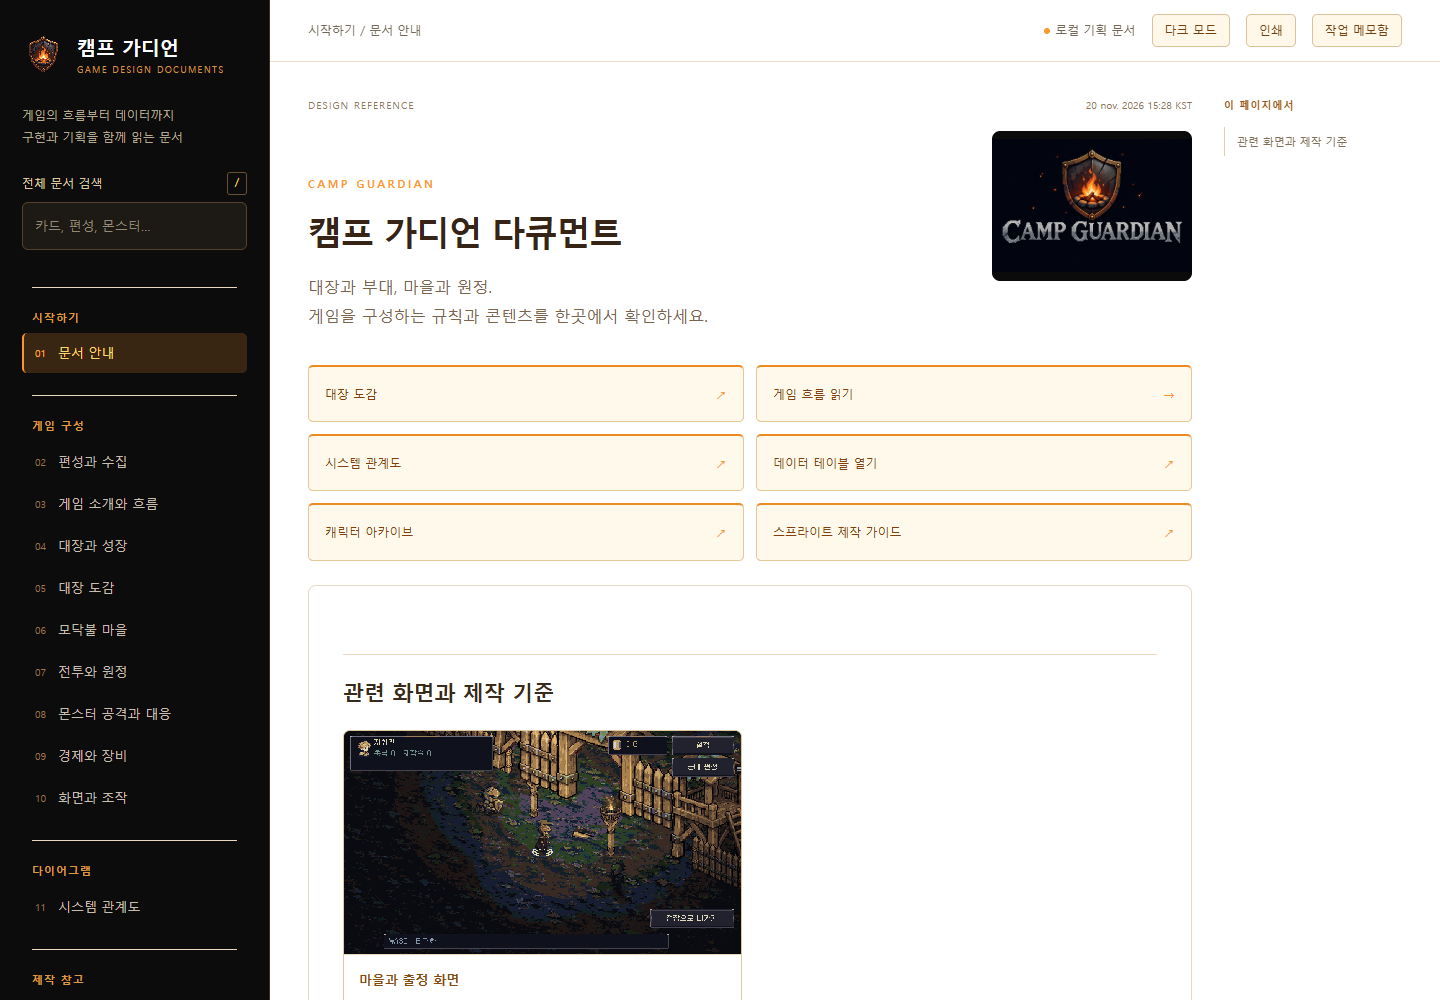
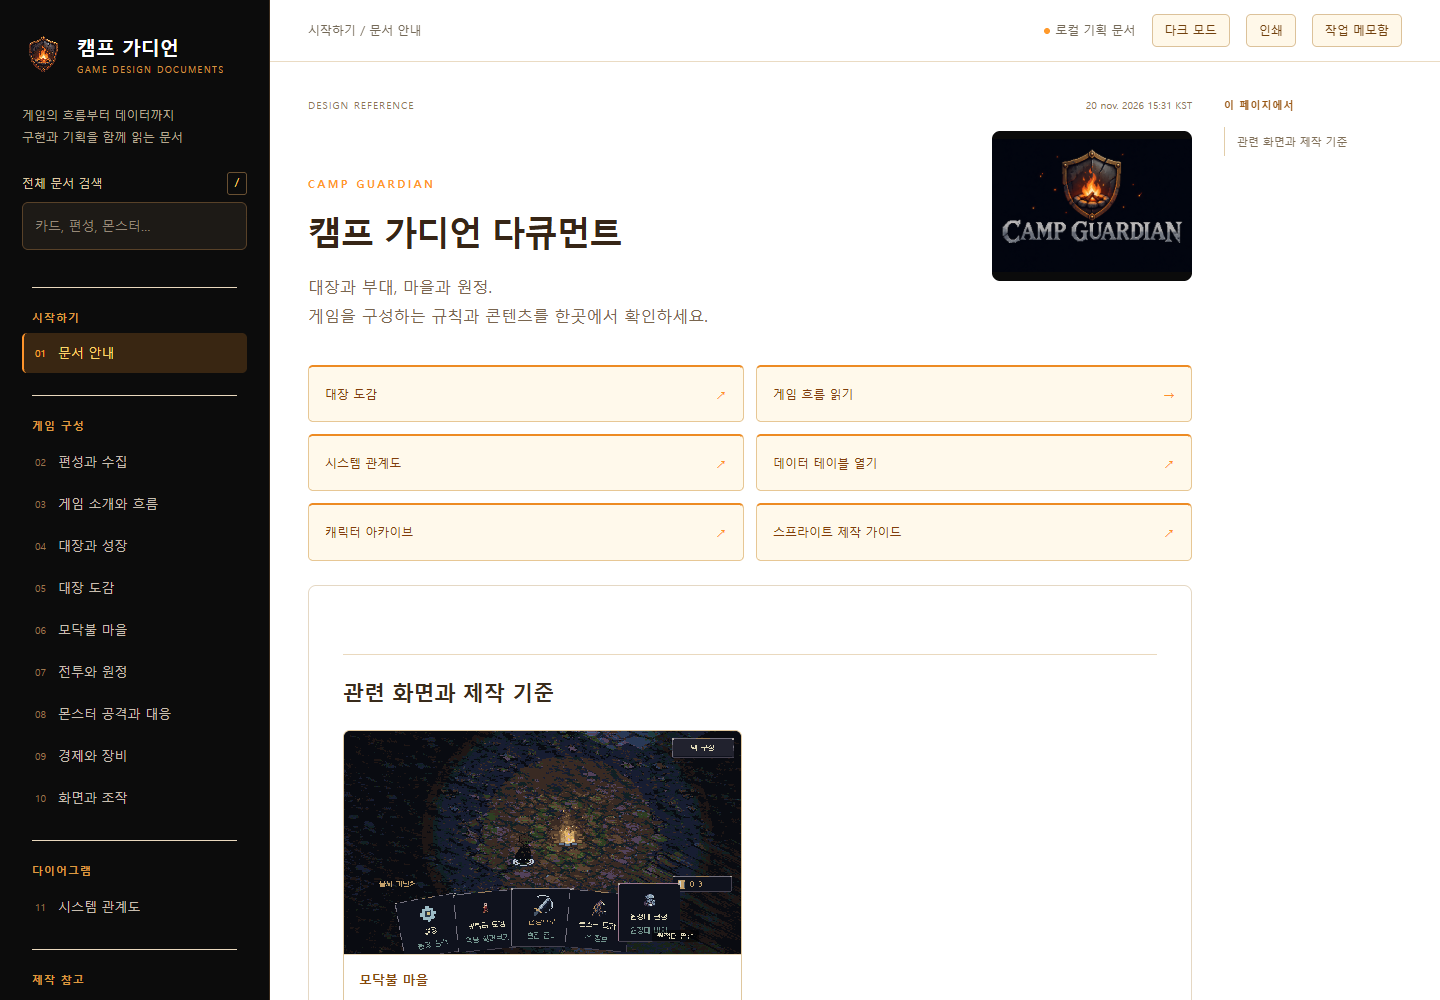
Update final current village image in site cleanup report

Changed region(s): [[0.25, 0.713, 0.5312, 0.992], [0.25, 0.744, 0.2812, 0.775]]

diff --git a/리포트/projects/dotaction/posts/2026-11-20-result-20261120063004170-v1.0.0.md b/리포트/projects/dotaction/posts/2026-11-20-result-20261120063004170-v1.0.0.md
@@ -31,11 +31,11 @@ payload: ../assets/submissions/2026-11-20-result-20261120063004170-v1.0.0.json
 
 ### 적용 내용
 
-게임 구성 9개 페이지는 현재 규칙 중심의 구성을 유지했습니다. 관계도의 과거 4대장 담당 구역·NPC 서비스·경험치 자동 성장·일시정지 증강 흐름을 제거하고 현재 원정/카드/행동 판정/몬스터 공격 4개 도식으로 정리했습니다. 미정 기획은 앞으로 결정할 항목만 남겼고 제작 가이드의 지난 장교 삼연격 작업 기록을 제거했습니다. 화면과 조작·미정 기획 메뉴 제목을 본문과 맞추고 검색 예시와 라이선스 링크 안내를 간결하게 바꿨습니다. 삭제 원문 5개는 docs/reference/history/site-content-20261120에 보관했습니다. 이미지·모션·FX·사운드·예정 애니메이션·작업 메모·프롬프트 기능과 원본 데이터는 유지했습니다. 앞으로 기능을 추가할 때 아카이브 상단에 작업 이력을 덧붙이지 않도록 프로젝트 지침을 보완했습니다.
+게임 구성 9개 페이지는 현재 규칙 중심의 구성을 유지했습니다. 관계도의 과거 4대장 담당 구역·NPC 서비스·경험치 자동 성장·일시정지 증강 흐름을 제거하고 현재 원정/카드/행동 판정/몬스터 공격 4개 도식으로 정리했습니다. 미정 기획은 앞으로 결정할 항목만 남겼고 제작 가이드의 지난 장교 삼연격 작업 기록을 제거했습니다. 화면과 조작·미정 기획 메뉴 제목을 본문과 맞추고 검색 예시와 라이선스 링크 안내를 간결하게 바꿨습니다. 삭제 원문 5개는 docs/reference/history/site-content-20261120에 보관했습니다. 이미지·모션·FX·사운드·예정 애니메이션·작업 메모·프롬프트 기능과 원본 데이터는 유지했습니다. 앞으로 기능을 추가할 때 아카이브 상단에 작업 이력을 덧붙이지 않도록 프로젝트 지침을 보완했습니다. 홈의 예전 NPC·목책 캡처는 2026-11-20 모닥불 마을 촬영본으로 교체하고, 마을의 중복 지도·폐기된 NPC/경비 이미지 목록을 정리했습니다. 원본 파일과 이전 미디어 목록은 보존합니다.
 
 ## 검증
 
-node docs/build.mjs 성공(15페이지·관계도4개·1041이미지). 실제 로컬 문서 서버·Chrome에서 전체 15개 메뉴를 한 번씩 열어 제목·가로 넘침·스크립트 오류·요청 실패와 내부 메뉴 링크를 확인했습니다. 가로 넘침 0, pageerror 0, 요청 실패 0, 잘못된 내부 메뉴 링크 0. 관계도4개 SVG 렌더 확인. 아카이브와 최종 홈 화면 스크린샷 내용 확인. 추가 테스트 작성·회귀 테스트 없음. SkillEvaluator는 스킬 설치·평가 요청이 아니므로 미적용, 기존 확인된 Playwright/Chrome 공식 API 재사용. 원격 업데이트 latest 2026-11-20-011 확인, 최신 사용자 로컬 미디어 지시 우선 적용.
+node docs/build.mjs 성공(15페이지·관계도4개·1030이미지). 실제 로컬 문서 서버·Chrome에서 전체 15개 메뉴를 한 번씩 열어 제목·가로 넘침·스크립트 오류·요청 실패와 내부 메뉴 링크를 확인했습니다. 가로 넘침 0, pageerror 0, 요청 실패 0, 잘못된 내부 메뉴 링크 0. 관계도4개 SVG 렌더 확인. 아카이브와 최종 홈 화면 스크린샷 내용 확인. 추가 테스트 작성·회귀 테스트 없음. SkillEvaluator는 스킬 설치·평가 요청이 아니므로 미적용, 기존 확인된 Playwright/Chrome 공식 API 재사용. 원격 업데이트 latest 2026-11-20-011 확인, 최신 사용자 로컬 미디어 지시 우선 적용.
 
 ## 남은 사항
 
